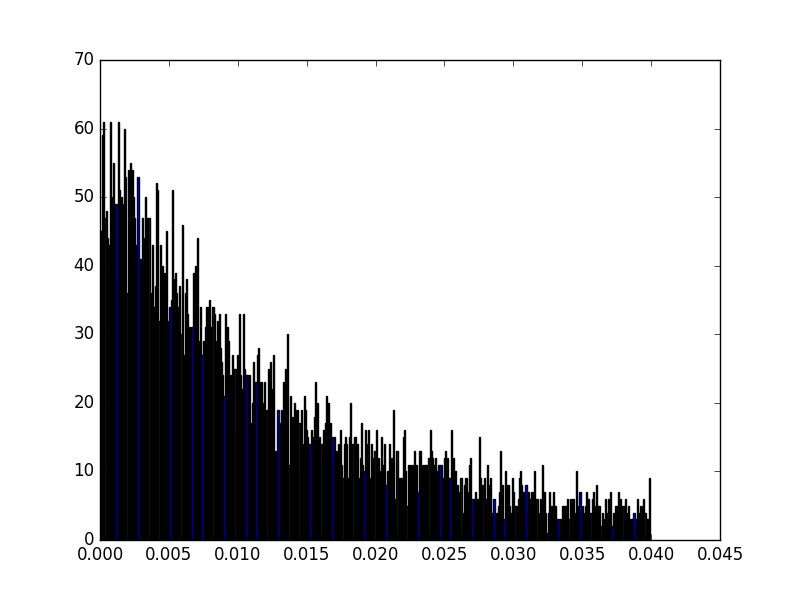
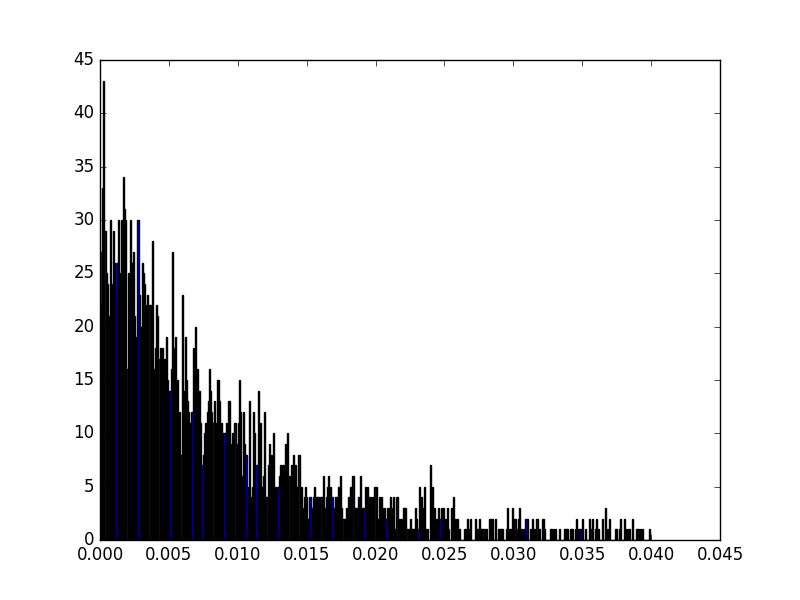
Introducing cuts to remove background events

diff --git a/Code/Lifetime.py b/Code/Lifetime.py
@@ -63,7 +63,7 @@ class CandidateEvent(object):
 	@lazy_property.LazyProperty
 	def labFrameTravel(self):
 		return magnitude(self.dstarDecay-self.d0Decay) * 1e-3 # convert mm -> m
-	
+
 	@lazy_property.LazyProperty
 	def pD0(self):
 		pcomps_d0 = self.kp+self.pd # in MeV
@@ -73,33 +73,33 @@ class CandidateEvent(object):
 	def pDstar(self):
 		pcomps_dstar = self.kp+self.pd+self.ps # in MeV
 		return momentum_toSI(magnitude(pcomps_dstar))
-	
+
 	@lazy_property.LazyProperty
 	def daughterEnergy(self):
 		p_pi = momentum_toSI(magnitude(self.pd))
 		p_k = momentum_toSI(magnitude(self.kp))
 		m_pi_si, m_k_si = mass_toSI(m_pi), mass_toSI(m_k)
 		return np.sqrt((p_pi*c)**2 + m_pi_si**2 * c**4)   +   np.sqrt((p_k*c)**2 + m_k_si**2 * c**4)
-	
+
 	@lazy_property.LazyProperty
 	def reconstructedD0Mass(self):
 		E_de = self.daughterEnergy
 		p_d0 = self.pD0
 		return np.sqrt(E_de**2 - (p_d0*c)**2)/c**2
-	
+
 	@lazy_property.LazyProperty
 	def gamma(self):
 		p_d0 = self.pD0
 		m_d0 = self.reconstructedD0Mass
 		return p_d0 / (c * m_d0)
-	
+
 	@lazy_property.LazyProperty
 	def decayTime(self):
 		x = self.labFrameTravel
 		m_d0 = self.reconstructedD0Mass
 		p_d0 = self.pD0
 		return x * m_d0 / p_d0
-	
+
 	@lazy_property.LazyProperty
 	def dStarEnergy(self):
 		E_d0 = self.daughterEnergy
@@ -112,6 +112,11 @@ class CandidateEvent(object):
 		E = self.dStarEnergy
 		p_dstar = self.pDstar
 		return np.sqrt(E**2 - (p_dstar*c)**2)/c**2
+
+	# in MeV
+	@lazy_property.LazyProperty
+	def massDiff_d0dstar(self):
+		return mass_toMeV(self.reconstructedDstarMass - self.reconstructedD0Mass)
 
 # reads a file and returns the D0 candidate events it lists
 # - expects the file to have specific col titles, returns None if there is an error
@@ -137,11 +142,113 @@ def readFile(name: Text):
         for row in rows:
         	# reshape row into several 3-vectors
         	nums = [float(x) for x in row]
-        	data = np.reshape(np.array(nums), (len(nums)//3, int(3))) 
+        	data = np.reshape(np.array(nums), (len(nums)//3, int(3)))
         	cand = CandidateEvent(data[elementIdxs[0]], data[elementIdxs[1]], data[elementIdxs[2]], data[elementIdxs[3]], data[elementIdxs[4]], data[elementIdxs[5]])
         	cands.append(cand)
 
         return cands
+
+
+
+def plotData(data):
+	# mass dist
+	masses = [mass_toMeV(d.reconstructedD0Mass) for d in data]
+	pl.hist(masses, bins=100, histtype='step', fill=False)
+	pl.xlabel(r'$D^0$ Mass / MeV/$c^2$')
+	pl.savefig('mass-dist.png')
+	pl.close()
+
+	# dstar mass dist
+	ds_masses = [mass_toMeV(d.reconstructedDstarMass) for d in data]
+	pl.hist(ds_masses, bins=100, histtype='step', fill=False)
+	pl.xlabel(r'$D^{+*}$ Mass / MeV/$c^2$')
+	pl.savefig('dstar-mass-dist.png')
+	pl.close()
+
+	# mass difference dist
+	mass_diffs = [x0 - x1 for x0, x1 in zip(ds_masses, masses)]
+	pl.hist(mass_diffs, bins=100, histtype='step', fill=False)
+	pl.xlabel(r'Mass difference / MeV/$c^2$')
+	pl.savefig('mass-diff-dist.png')
+	pl.close()
+
+	# gamma dist
+	gammas = [d.gamma for d in data]
+	pl.hist(gammas, bins=500)
+	pl.savefig('gamma-dist.png')
+	pl.close()
+
+	# travel dist
+	trav = [d.labFrameTravel for d in data]
+	pl.hist(trav, bins=500, range=(0, 0.04))
+	pl.savefig('trav-dist.png')
+	pl.close()
+
+
+	# decay time dist
+	times = [d.decayTime*1e12 for d in data]
+
+	pl.hist(times, bins=100, range=(0, 50))
+	pl.savefig('time-hist.png')
+	pl.close()
+
+	# decay time curve
+	hist, bin_edges = np.histogram(times, bins=500, range=(0, 50))
+	num_events = np.sum(hist)
+	print(num_events, ' events')
+	time = bin_edges[1:]
+
+	pl.plot(time, hist, '-b')
+	pl.xlabel(r'Decay time / ps')
+	pl.savefig('decay.png')
+	pl.close()
+
+	# decay time fitting
+	po, po_cov = spo.curve_fit(lambda t, A, tau: A * np.exp(-t/tau), time, hist, [num_events, 1.5]) #TODO: error analysis, np.repeat(0.03, l-transition_idx), absolute_sigma=True)
+
+	pl.plot(time, hist, '-b')
+	pl.plot(time, np.vectorize(lambda t: po[0] * np.exp(-t/po[1]))(time), '-r')
+	pl.xlabel(r'Decay time / ps')
+	pl.savefig('decay-fitted.png')
+	pl.close()
+
+	partial_lifetime = po[1]
+	print('partial lifetime\t' + str(partial_lifetime) + ' ps')
+	# print(hbar/(partial_lifetime*1e-12), hbar)
+	# print('partial width   \t' + str(c**2 * 1e-6 * hbar/(partial_lifetime*1e-12) / e) + ' MeV/c2')
+
+
+
+# takes list of candidate events, cuts them by their mass diff
+def cutEventSet_massDiff(events):
+
+	def fit_func(dm, bg_A, sig_A, sig_centre, sig_w, r):
+		signal = sig_A * np.exp(-np.abs(dm-sig_centre)/sig_w)
+		bg = bg_A * (dm-m_pi)**r
+		return signal + bg
+	initial = [20, 220, 146, 2, 0.5]
+
+	diffs = [d.massDiff_d0dstar for d in events]
+
+	hist, bin_edges = np.histogram(diffs, bins=500)
+	masses = bin_edges[1:]
+
+	po, po_cov = spo.curve_fit(fit_func, masses, hist, initial)
+
+	print(po)
+	pl.plot(masses, hist, '-b')
+	pl.plot(masses, fit_func(masses, *po), '-r')
+# 	pl.xlabel(r'Decay time / ps')
+	pl.savefig('cut-fitted.png')
+	pl.close()
+
+	# cut at 4 widths
+	bg_A, sig_A, sig_centre, sig_w, r = po
+	width = 1.2
+	range_low, range_up = sig_centre - sig_w*width, sig_centre + sig_w*width
+	print('range', range_low, range_up)
+	return list(filter(lambda event: range_low <= event.massDiff_d0dstar <= range_up, events))
+
 
 
 #get data
@@ -151,74 +258,11 @@ print(d)
 mass, time = d.reconstructedD0Mass, d.decayTime
 print('mass', mass, mass*1e-6*c**2 / e, time, time*1e15)
 
-# mass dist
-masses = [mass_toMeV(d.reconstructedD0Mass) for d in data]
-pl.hist(masses, bins=100, histtype='step', fill=False)
-pl.xlabel(r'$D^0$ Mass / MeV/$c^2$')
-pl.savefig('mass-dist.png')
-pl.close()
 
-# dstar mass dist
-ds_masses = [mass_toMeV(d.reconstructedDstarMass) for d in data]
-pl.hist(ds_masses, bins=100, histtype='step', fill=False)
-pl.xlabel(r'$D^{+*}$ Mass / MeV/$c^2$')
-pl.savefig('dstar-mass-dist.png')
-pl.close()
-
-# mass difference dist
-mass_diffs = [x0 - x1 for x0, x1 in zip(ds_masses, masses)]
-pl.hist(mass_diffs, bins=500, histtype='step', fill=False)
-pl.xlabel(r'Mass difference / MeV/$c^2$')
-pl.savefig('mass-diff-dist.png')
-pl.close()
-
-
-# gamma dist
-gammas = [d.gamma for d in data]
-pl.hist(gammas, bins=500)
-pl.savefig('gamma-dist.png')
-pl.close()
-
-# travel dist
-trav = [d.labFrameTravel for d in data]
-pl.hist(trav, bins=500, range=(0, 0.04))
-pl.savefig('trav-dist.png')
-pl.close()
-
-
-
-# decay time dist
-times = [d.decayTime*1e12 for d in data]
-
-pl.hist(times, bins=100, range=(0, 10))
-pl.savefig('time-hist.png')
-pl.close()
-
-# decay time curve
-hist, bin_edges = np.histogram(times, bins=500, range=(0, 20))
-num_events = np.sum(hist)
-print(num_events, ' events')
-time = bin_edges[1:]
-
-pl.plot(time, hist, '-b')
-pl.xlabel(r'Decay time / ps')
-pl.savefig('decay.png')
-pl.close()
-
-# decay time fitting
-po, po_cov = spo.curve_fit(lambda t, A, tau: A * np.exp(-t/tau), time, hist, [num_events, 1.5]) #TODO: error analysis, np.repeat(0.03, l-transition_idx), absolute_sigma=True)
-
-pl.plot(time, hist, '-b')
-pl.plot(time, np.vectorize(lambda t: po[0] * np.exp(-t/po[1]))(time), '-r')
-pl.xlabel(r'Decay time / ps')
-pl.savefig('decay-fitted.png')
-pl.close()
-
-partial_lifetime = po[1]
-print('partial lifetime\t' + str(partial_lifetime) + ' ps')
-# print(hbar/(partial_lifetime*1e-12), hbar)
-# print('partial width   \t' + str(c**2 * 1e-6 * hbar/(partial_lifetime*1e-12) / e) + ' MeV/c2')
-
-# takes list of candidate events, cuts them by their mass diff
-def cutEventSet_massDiff(events):
-	pass
+filtered = cutEventSet_massDiff(data)
+event = filtered[0]
+d0_c, dstar_c = 1865., 2010.
+width = 15.
+filterMasses = list(filter(lambda event: (d0_c-width) <= mass_toMeV(event.reconstructedD0Mass) <= (d0_c+width) and (dstar_c-width) <= mass_toMeV(event.reconstructedDstarMass) <= (dstar_c+width), filtered))
+# filterMasses = filtered
+plotData(filterMasses)
